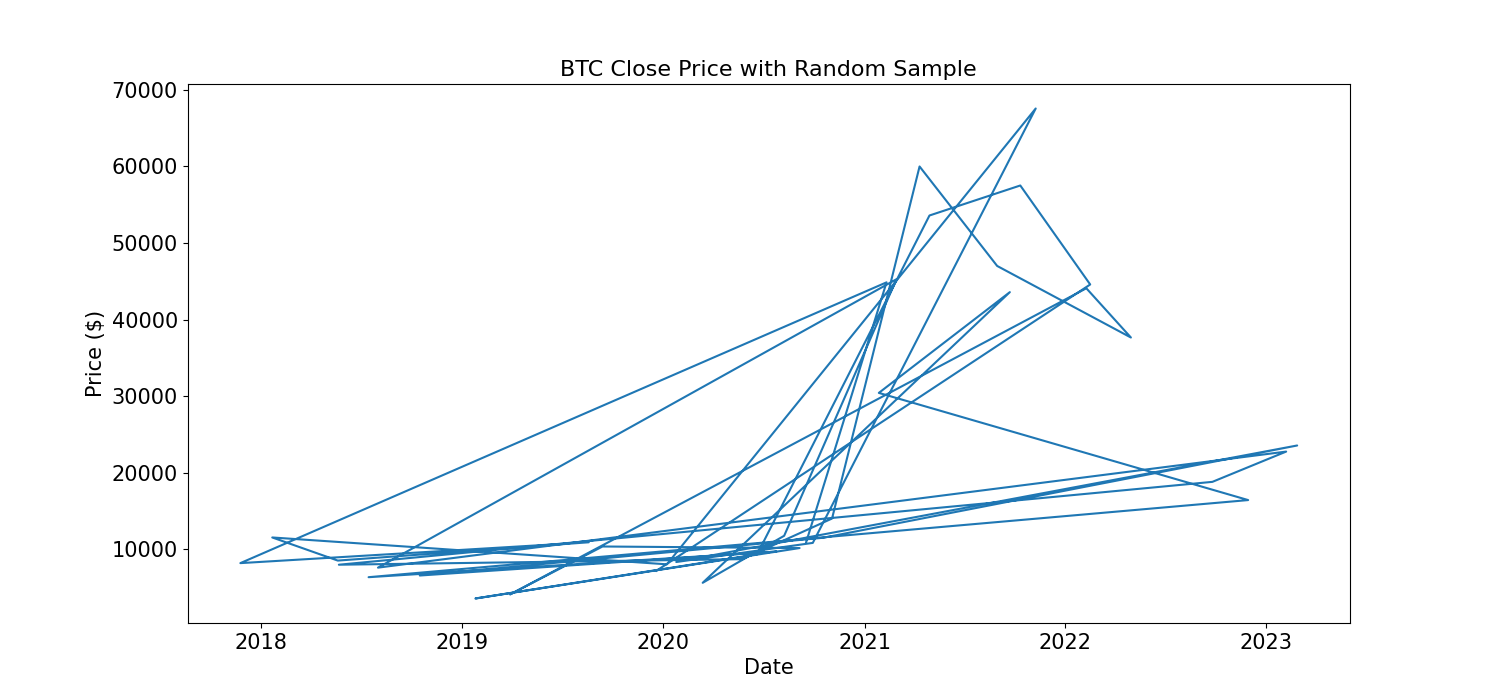
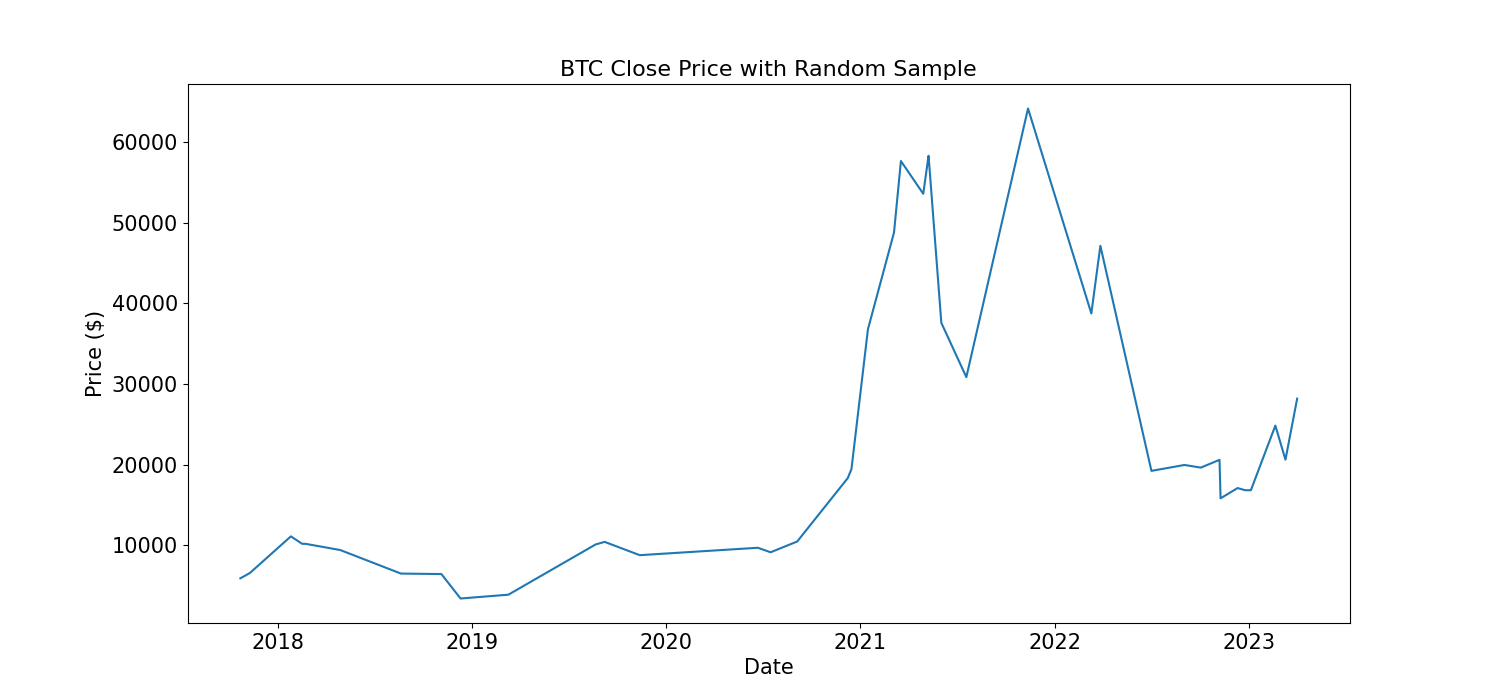
Finalize BTC testing for Vitter's R Algorithm

diff --git a/r_vitter.py b/r_vitter.py
@@ -39,7 +39,6 @@ def vitter_bitcoin(size_of_sample: int):
 
     # Fetch the raw price data
     raw_price_data = cryptocompare.get_historical_price_day(
-    # raw_price_data = cryptocompare.get_historical_price_hour(
         ticker_symbol,
         currency,
         limit=limit_value,
@@ -49,8 +48,6 @@ def vitter_bitcoin(size_of_sample: int):
 
     # Convert the raw price data into a DataFrame
     daily_price_data = pd.DataFrame.from_dict(raw_price_data)
-    # print(raw_price_data)
-    # print(daily_price_data)
 
     # Set the time columns as index and convert it to datetime
     daily_price_data.set_index("time", inplace=True)
@@ -58,39 +55,39 @@ def vitter_bitcoin(size_of_sample: int):
     daily_price_data['datetimes'] = daily_price_data.index
     daily_price_data['datetimes'] = daily_price_data['datetimes'].dt.strftime(
         '%Y-%m-%d')
-    # print(daily_price_data)
 
-    # Plot the close price
+    # Vitter's R Algorithm
+    rv = RVitter(size_of_sample)
+    for _, row in daily_price_data.iterrows():
+        rv.step(row)
+    r_vitter_data = pd.DataFrame(rv.get())
+    r_vitter_data.sort_values(by='datetimes', inplace = True) 
+
+    plt.figure(figsize=(16, 14))
+
+    # Plot the whole data
     plt.subplot(2, 1, 1)
-    plt.figure(figsize=(15, 7))
     plt.plot(daily_price_data.close)
     # Set title and labels for the plot
     plt.title('BTC Close Price', fontsize=16)
     plt.xlabel('Date', fontsize=15)
     plt.ylabel('Price ($)', fontsize=15)
     plt.tick_params(axis='both', labelsize=15)
-    # Show the plot
-    plt.savefig('z22_r_vitter/btc_full.png')
+    # plt.savefig('z22_r_vitter/btc_full.png')
     # plt.show()
-
-    # Vitter's R Algorithm
-    rv = RVitter(size_of_sample)
-    for _, row in daily_price_data.iterrows():
-        rv.step(row)
-    r_vitter_data = pd.DataFrame(rv.get()).close
-    r_vitter_data.sort_values(by='time', inplace = True) 
 
     # Plot Vitter's R
     plt.subplot(2, 1, 2)
-    plt.figure(figsize=(15, 7))
-    plt.plot(r_vitter_data)
+    plt.plot(r_vitter_data.close)
     # Set title and labels for the plot
     plt.title('BTC Close Price with Random Sample', fontsize=16)
     plt.xlabel('Date', fontsize=15)
     plt.ylabel('Price ($)', fontsize=15)
     plt.tick_params(axis='both', labelsize=15)
-    # Show the plot
-    plt.savefig('z22_r_vitter/btc_vitter.png')
+    # plt.savefig('z22_r_vitter/btc_vitter.png')
+    # plt.show()
+
+    plt.savefig('z22_r_vitter/btc.png')
     # plt.show()
 
 
